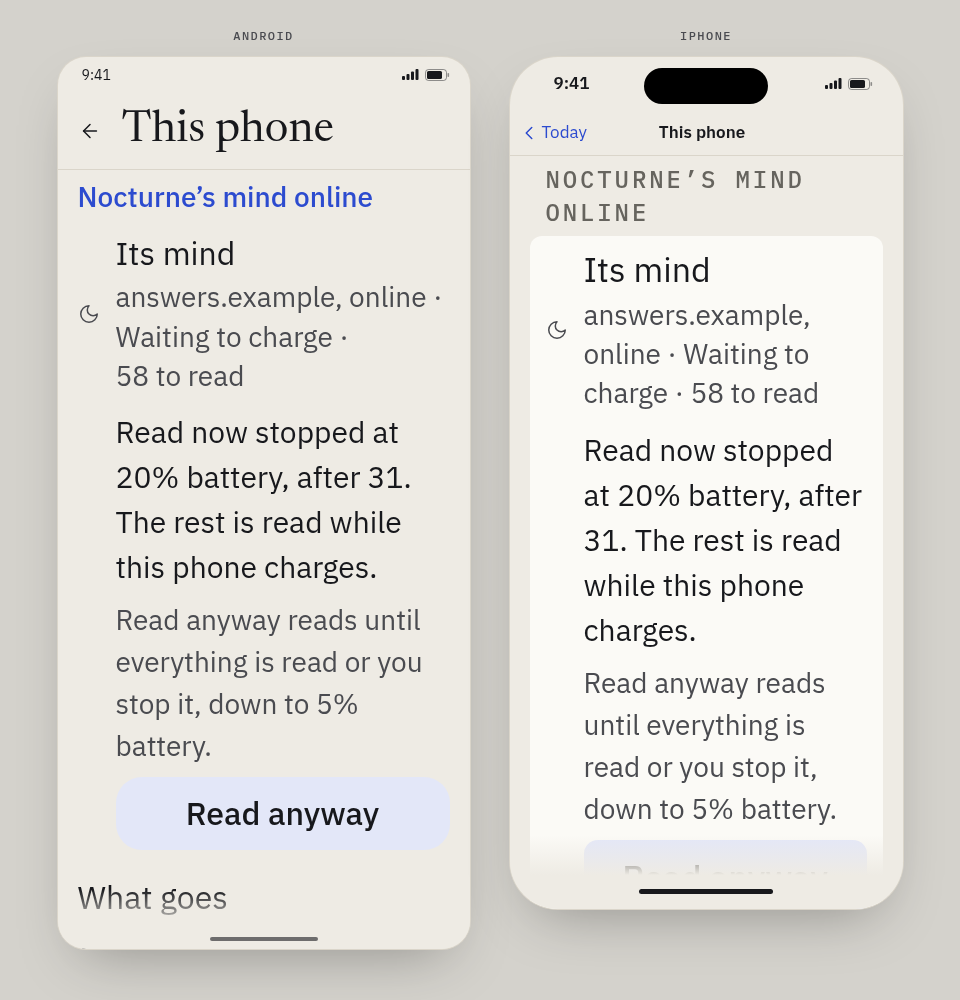
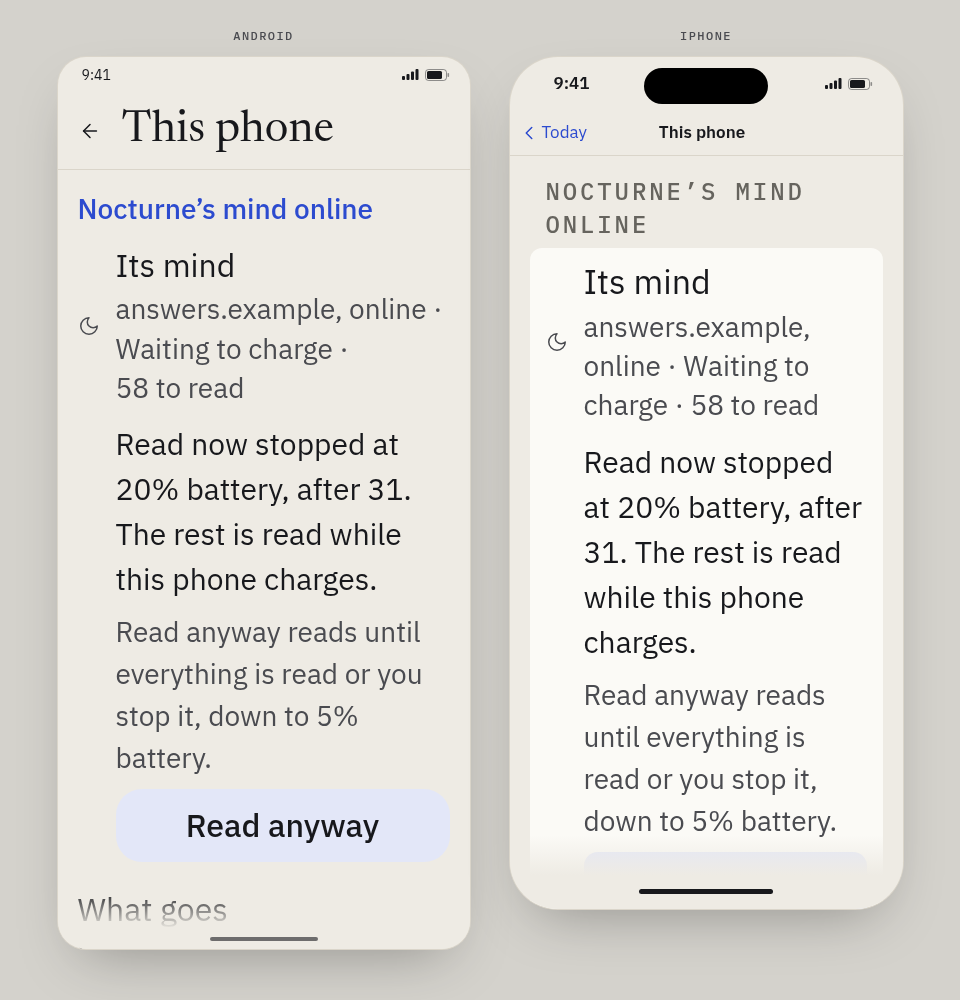
docs(design): outline Stop, space the mind header

diff --git a/docs/design/mockups/mind-online-setup/setup.css b/docs/design/mockups/mind-online-setup/setup.css
@@ -89,6 +89,8 @@ html[data-text="200"] .pick .pdot { margin-top: calc(0.7em - 3.5px); }
 .rn p.rnSaid { display: flex; align-items: flex-start; gap: 6px; color: var(--ink); font-size: 0.9375rem; }
 .rn p.rnSaid svg { flex: none; margin-top: 2px; }
 .rn .btn { height: 44px; }
+/* A quiet button in the block keeps the app's own outline, so it spans the block like the app's. */
+.rn .btn[data-kind="quiet"] { border-color: var(--rule); }
 html[data-text="200"] .rn .btn { height: auto; }
 svg.mark { background: none; }
 .osNote { margin: 0 0 12px 38px; padding: 8px 10px; border: 1px dashed var(--ink3); border-radius: 8px; text-align: left; letter-spacing: 0.04em; }

diff --git a/docs/design/mockups/mind-online-setup/reading.html b/docs/design/mockups/mind-online-setup/reading.html
@@ -148,7 +148,7 @@ document.fonts.ready.then(() => {
   for (const scroll of document.querySelectorAll(".scroll")) {
     if (document.documentElement.dataset.text === "200") {
       const head = [...scroll.querySelectorAll(".ghead")].find((h) => h.textContent.startsWith("Nocturne"));
-      if (head) scroll.scrollTop = head.offsetTop - 8;
+      if (head) scroll.scrollTop = head.offsetTop - 20;
     }
     if (scroll.scrollTop > 0) scroll.closest(".screen").dataset.scrolled = "";
   }
